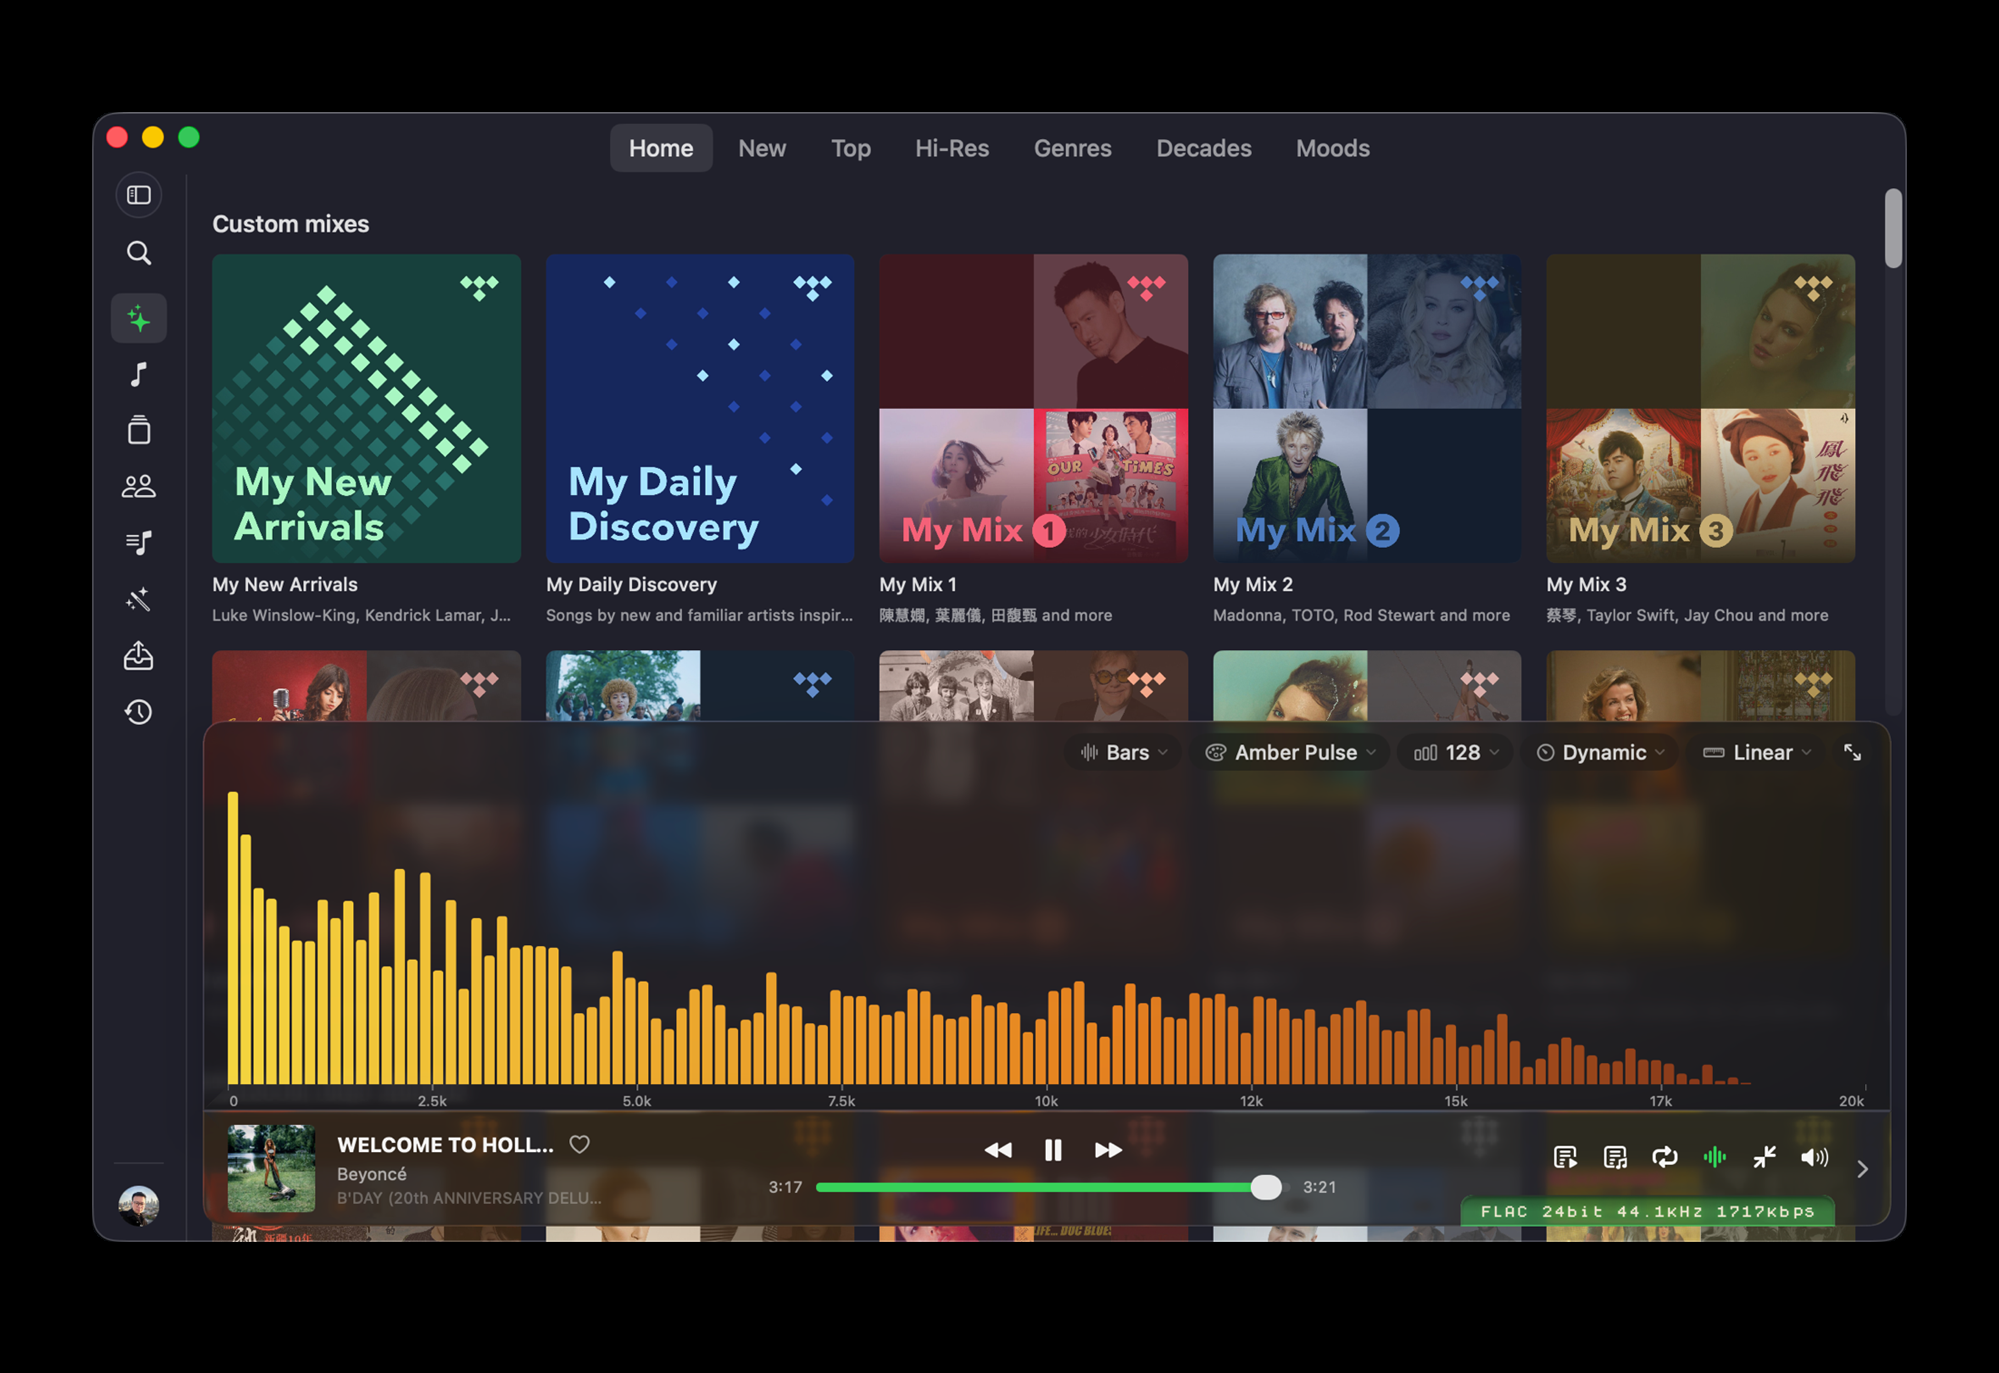
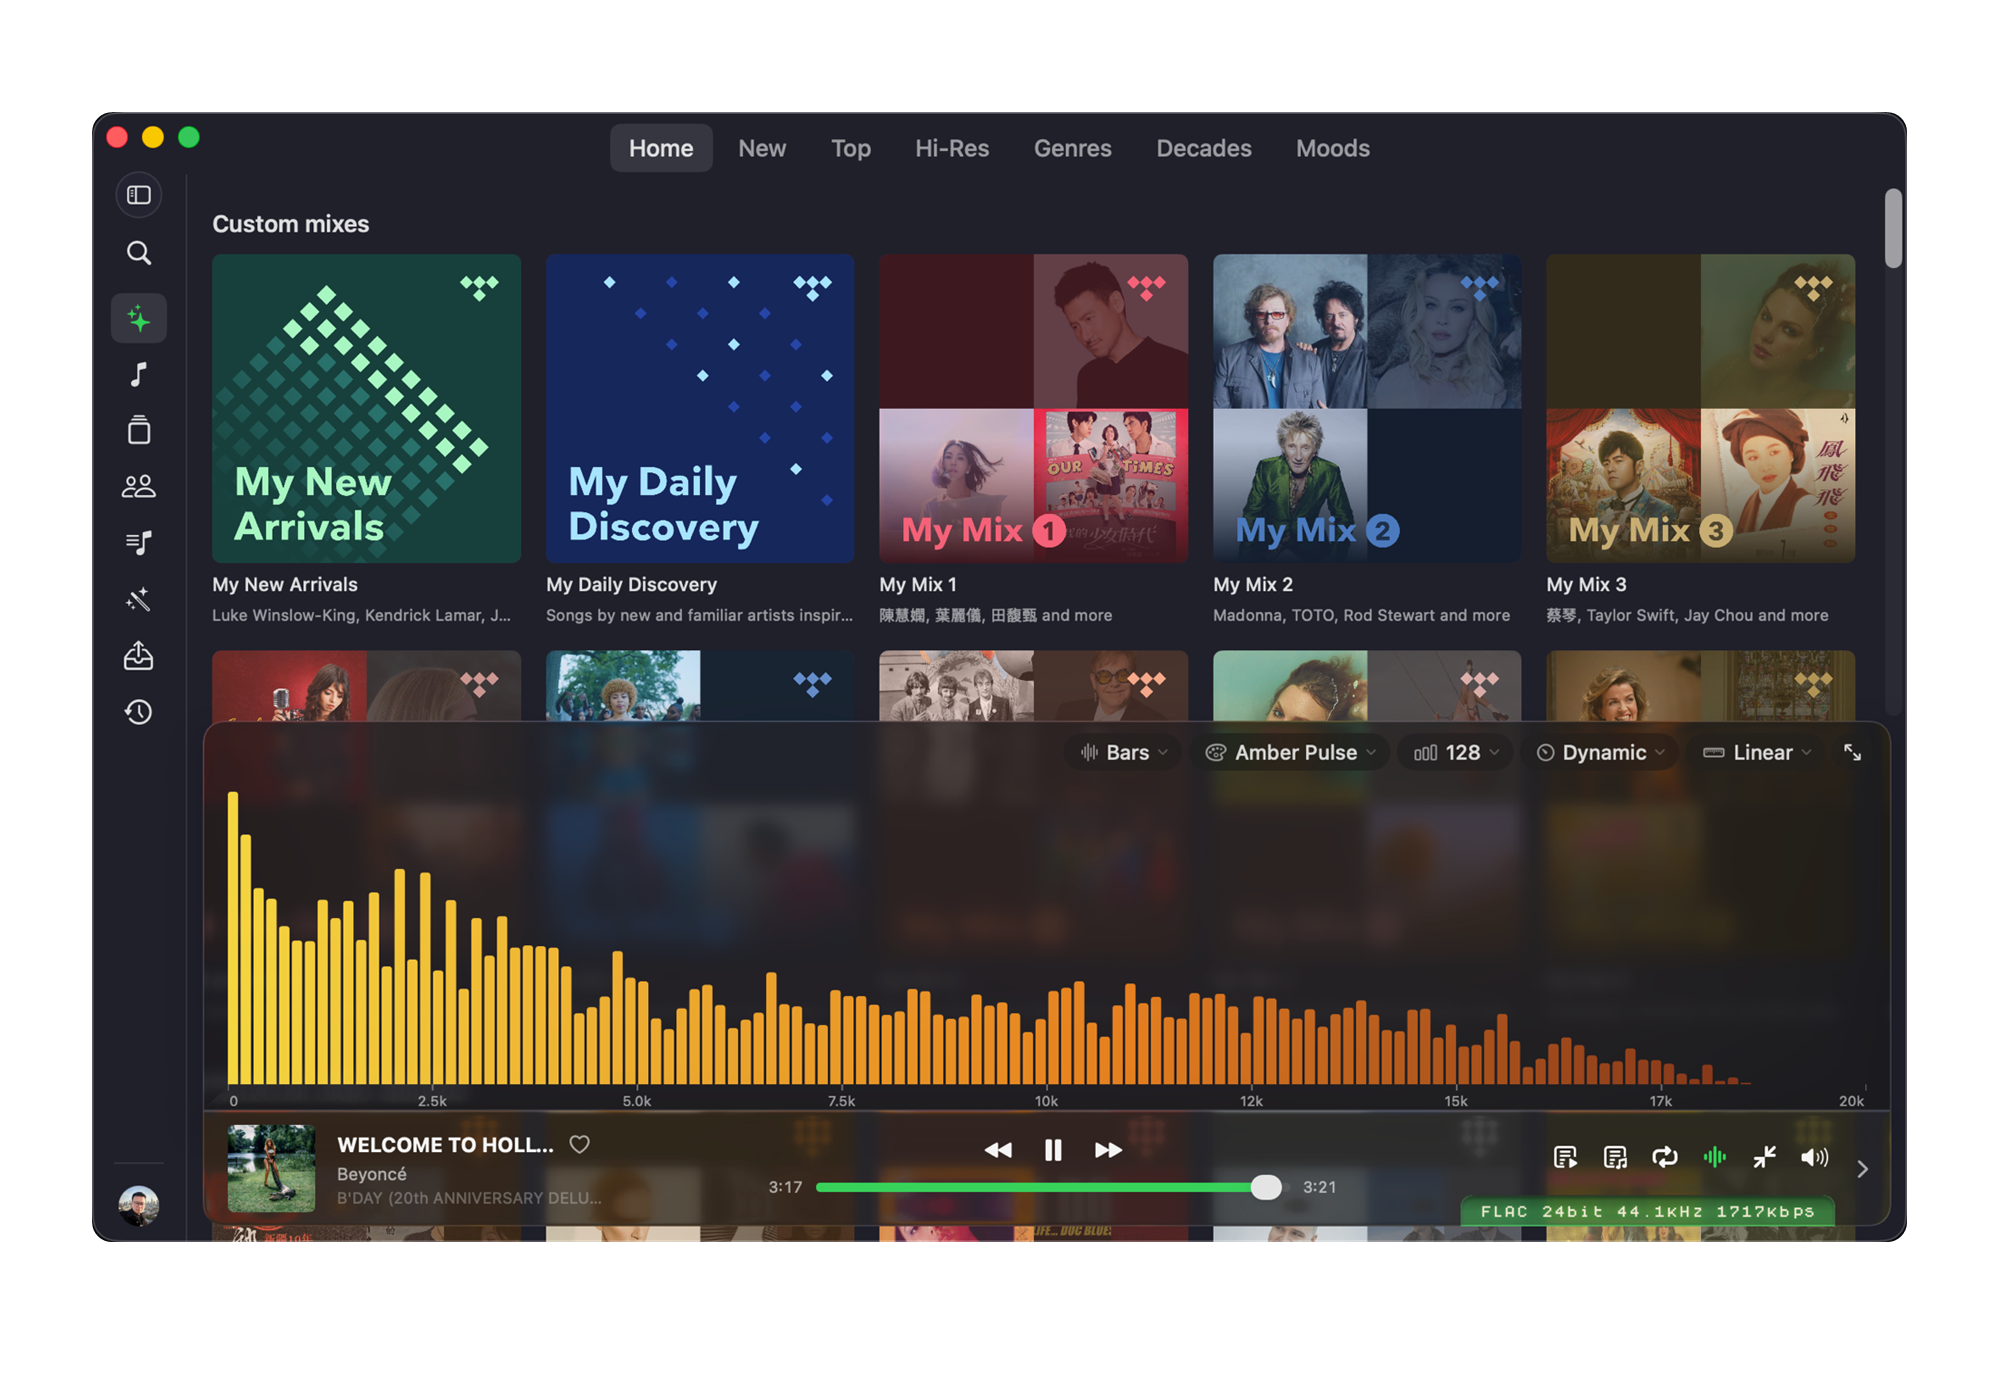
screenshots: transparent surround on all three, like the Linux shot
The Linux shot carries alpha 0 around the window, so it blends into the
page; the macOS composite was opaque black and the Windows one was a
JPEG, which has no alpha at all. Both are now composited on a
transparent canvas with the same rounded corners, and the Windows shot
becomes a PNG so it can hold alpha.

Changed region(s): [[0.0, 0.0, 1.0, 1.0]]

diff --git a/README.md b/README.md
@@ -42,7 +42,7 @@ each build has today and what is coming next.
 
 **Windows** — WinUI 3
 
-<img src="screenshots/windows-01-home.jpg" alt="OxiTide on Windows — Home, the play bar naming the format reaching the DAC" width="900" height="618">
+<img src="screenshots/windows-01-home.png" alt="OxiTide on Windows — Home, the play bar naming the format reaching the DAC" width="900" height="618">
 
 ## Install
 
